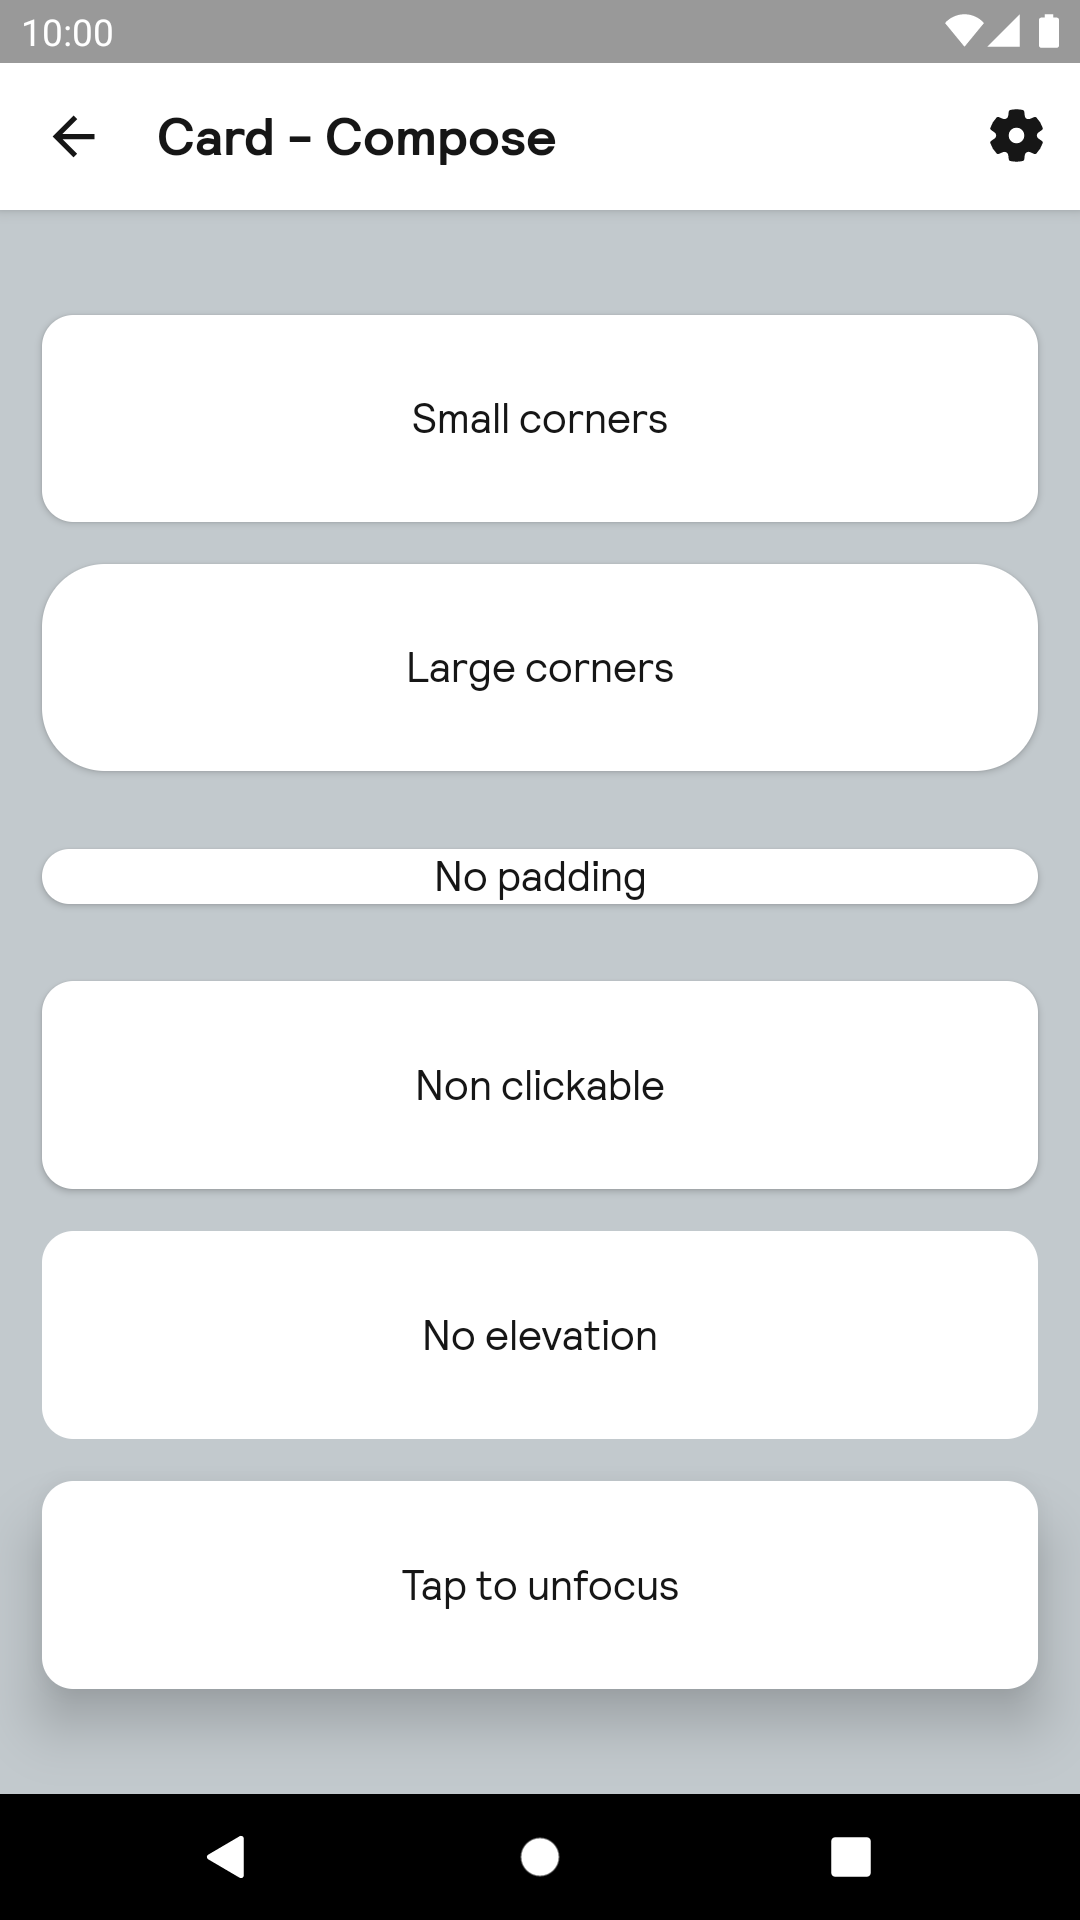
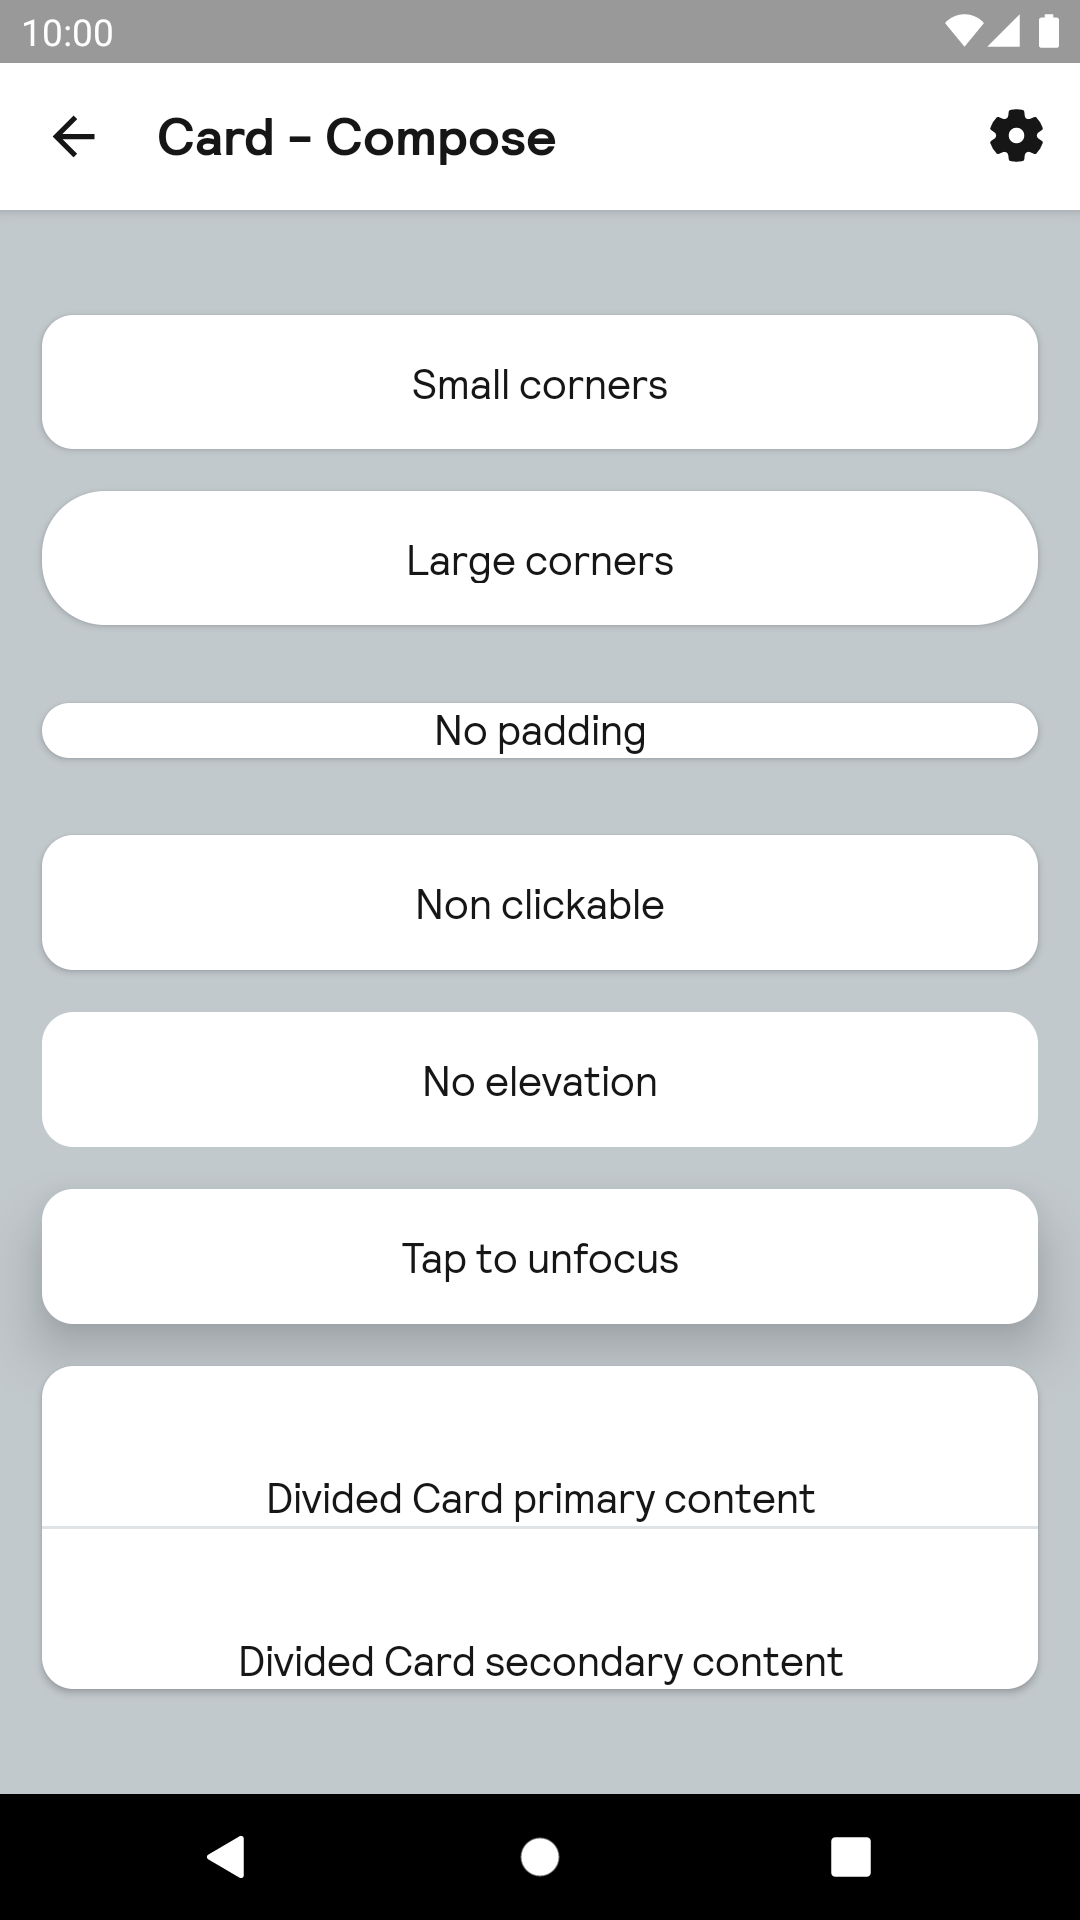
SONIC-1227 BpkInventoryDividedCard (#1365)
* SONIC-1227 add InventoryDividedCard.kt

* SONIC-1227 add inventoryDividedCardWidth()

* SONIC-1227 add screenshots

* SONIC-1227 add tests

* Record snapshots

* Updated snapshots for 'rtl'

* Updated snapshots for 'dm'

* SONIC-1227 change screenshot

* SONIC-1227 detekt fix

* SONIC-1227 remove old screenshots

* Record snapshots

* Updated snapshots for 'dm'

* Updated snapshots for 'default'

* Updated snapshots for 'rtl'

* SONIC-1227 rename to BpkDividedCard

* SONIC-1227 new screenshots

* Record snapshots

* Record snapshots

* SONIC-1227 move to Cards doc

* SONIC-1227 new screenshots

* Record snapshots

* Record snapshots

* Record snapshots

* Updated snapshots for 'rtl'

* Updated snapshots for 'dm'

* Updated snapshots for 'default'

* Trigger CI

Changed region(s): [[0.0306, 0.5625, 0.9778, 0.9062], [0.0306, 0.1875, 0.9778, 0.4062], [0.0306, 0.4375, 0.9778, 0.5312]]

diff --git a/app/src/androidTest/java/net/skyscanner/backpack/compose/dividedcard/BpkDividedCardTest.kt b/app/src/androidTest/java/net/skyscanner/backpack/compose/dividedcard/BpkDividedCardTest.kt
@@ -1,0 +1,130 @@
+/**
+ * Backpack for Android - Skyscanner's Design System
+ *
+ * Copyright 2018 Skyscanner Ltd
+ *
+ * Licensed under the Apache License, Version 2.0 (the "License");
+ * you may not use this file except in compliance with the License.
+ * You may obtain a copy of the License at
+ *
+ *   http://www.apache.org/licenses/LICENSE-2.0
+ *
+ * Unless required by applicable law or agreed to in writing, software
+ * distributed under the License is distributed on an "AS IS" BASIS,
+ * WITHOUT WARRANTIES OR CONDITIONS OF ANY KIND, either express or implied.
+ * See the License for the specific language governing permissions and
+ * limitations under the License.
+ */
+
+package net.skyscanner.backpack.compose.dividedcard
+
+import androidx.compose.foundation.Image
+import androidx.compose.foundation.layout.Spacer
+import androidx.compose.foundation.layout.fillMaxWidth
+import androidx.compose.foundation.layout.height
+import androidx.compose.ui.Modifier
+import androidx.compose.ui.layout.ContentScale
+import androidx.compose.ui.res.painterResource
+import androidx.compose.ui.res.stringResource
+import androidx.compose.ui.text.style.TextAlign
+import androidx.test.ext.junit.runners.AndroidJUnit4
+import net.skyscanner.backpack.BpkSnapshotTest
+import net.skyscanner.backpack.compose.text.BpkText
+import net.skyscanner.backpack.compose.theme.BpkTheme
+import net.skyscanner.backpack.compose.tokens.BpkSpacing
+import net.skyscanner.backpack.demo.R
+import org.junit.Before
+import org.junit.Test
+import org.junit.runner.RunWith
+
+@RunWith(AndroidJUnit4::class)
+class BpkDividedCardTest : BpkSnapshotTest() {
+
+  @Before
+  fun setup() {
+    setDimensions(height = 200, width = 450)
+  }
+
+  @Test
+  fun cardWidthSmallerThanMinimum() {
+    composed {
+      BpkDividedCard(
+        modifier = Modifier.dividedCardWidth(BpkSpacing.Xxl),
+        primaryContent = {
+          Image(
+            modifier = Modifier
+              .height(BpkSpacing.Xxl * 2)
+              .fillMaxWidth(),
+            painter = painterResource(id = R.drawable.canadian_rockies_canada),
+            contentDescription = "",
+            contentScale = ContentScale.Crop
+          )
+        },
+        secondaryContent = {
+          BpkText(
+            modifier = Modifier.fillMaxWidth(),
+            text = stringResource(id = R.string.divided_card_width_less_than_minimum),
+            style = BpkTheme.typography.bodyDefault,
+            textAlign = TextAlign.Center
+          )
+        },
+        onClick = {}
+      )
+    }
+  }
+
+  @Test
+  fun cardWidthGreaterThanMinimum() {
+    composed {
+      BpkDividedCard(
+        modifier = Modifier.fillMaxWidth(),
+        primaryContent = {
+          Image(
+            modifier = Modifier
+              .height(BpkSpacing.Xxl * 2)
+              .fillMaxWidth(),
+            painter = painterResource(id = R.drawable.canadian_rockies_canada),
+            contentDescription = "",
+            contentScale = ContentScale.Crop
+          )
+        },
+        secondaryContent = {
+          BpkText(
+            modifier = Modifier.fillMaxWidth(),
+            text = stringResource(id = R.string.divided_card_width_more_than_minimum),
+            style = BpkTheme.typography.bodyDefault,
+            textAlign = TextAlign.Center
+          )
+        },
+        onClick = {}
+      )
+    }
+  }
+
+  @Test
+  fun emptyCard() {
+    composed {
+      BpkDividedCard(
+        modifier = Modifier.fillMaxWidth(),
+        primaryContent = {
+          Spacer(modifier = Modifier.height(BpkSpacing.Xxl))
+          BpkText(
+            modifier = Modifier.fillMaxWidth(),
+            text = stringResource(id = R.string.divided_card_primary_content),
+            style = BpkTheme.typography.bodyDefault,
+            textAlign = TextAlign.Center,
+          )
+        },
+        secondaryContent = {
+          Spacer(modifier = Modifier.height(BpkSpacing.Xxl))
+          BpkText(
+            modifier = Modifier.fillMaxWidth(),
+            text = stringResource(id = R.string.divided_card_secondary_content),
+            style = BpkTheme.typography.bodyDefault,
+            textAlign = TextAlign.Center,
+          )
+        },
+      )
+    }
+  }
+}

diff --git a/backpack-compose/src/main/kotlin/net/skyscanner/backpack/compose/dividedcard/BpkDividedCard.kt b/backpack-compose/src/main/kotlin/net/skyscanner/backpack/compose/dividedcard/BpkDividedCard.kt
@@ -1,0 +1,90 @@
+/**
+ * Backpack for Android - Skyscanner's Design System
+ *
+ * Copyright 2018 Skyscanner Ltd
+ *
+ * Licensed under the Apache License, Version 2.0 (the "License");
+ * you may not use this file except in compliance with the License.
+ * You may obtain a copy of the License at
+ *
+ *   http://www.apache.org/licenses/LICENSE-2.0
+ *
+ * Unless required by applicable law or agreed to in writing, software
+ * distributed under the License is distributed on an "AS IS" BASIS,
+ * WITHOUT WARRANTIES OR CONDITIONS OF ANY KIND, either express or implied.
+ * See the License for the specific language governing permissions and
+ * limitations under the License.
+ */
+
+package net.skyscanner.backpack.compose.dividedcard
+
+import androidx.compose.foundation.background
+import androidx.compose.foundation.layout.Column
+import androidx.compose.foundation.layout.Spacer
+import androidx.compose.foundation.layout.fillMaxWidth
+import androidx.compose.foundation.layout.height
+import androidx.compose.foundation.layout.requiredWidth
+import androidx.compose.runtime.Composable
+import androidx.compose.ui.Modifier
+import androidx.compose.ui.unit.Dp
+import androidx.compose.ui.unit.dp
+import net.skyscanner.backpack.compose.card.BpkCard
+import net.skyscanner.backpack.compose.card.BpkCardCorner
+import net.skyscanner.backpack.compose.card.BpkCardPadding
+import net.skyscanner.backpack.compose.theme.BpkTheme
+
+@Composable
+fun BpkDividedCard(
+  primaryContent: @Composable () -> Unit,
+  secondaryContent: @Composable () -> Unit,
+  modifier: Modifier = Modifier,
+  onClick: (() -> Unit)? = null,
+) {
+  onClick?.let {
+    BpkCard(
+      onClick = it,
+      modifier = modifier,
+      corner = BpkCardCorner.Small,
+      padding = BpkCardPadding.None,
+    ) {
+      Content(
+        primaryContent = primaryContent,
+        secondaryContent = secondaryContent,
+      )
+    }
+  } ?: run {
+    BpkCard(
+      modifier = modifier,
+      corner = BpkCardCorner.Small,
+      padding = BpkCardPadding.None,
+    ) {
+      Content(
+        primaryContent = primaryContent,
+        secondaryContent = secondaryContent,
+      )
+    }
+  }
+}
+
+@Composable
+private fun Content(
+  primaryContent: @Composable () -> Unit,
+  secondaryContent: @Composable () -> Unit,
+) {
+  Column {
+    primaryContent.invoke()
+    Spacer(
+      modifier = Modifier
+        .height(1.dp)
+        .fillMaxWidth()
+        .background(color = BpkTheme.colors.surfaceHighlight),
+    )
+    secondaryContent.invoke()
+  }
+}
+
+fun Modifier.dividedCardWidth(cardWidth: Dp): Modifier {
+  val minWidth = 240.dp
+  val width = if (cardWidth < minWidth) minWidth else cardWidth
+  return requiredWidth(width)
+}

diff --git a/app/src/main/java/net/skyscanner/backpack/demo/compose/CardStory.kt b/app/src/main/java/net/skyscanner/backpack/demo/compose/CardStory.kt
@@ -21,7 +21,9 @@ package net.skyscanner.backpack.demo.compose
 import androidx.compose.foundation.background
 import androidx.compose.foundation.layout.Arrangement
 import androidx.compose.foundation.layout.Column
+import androidx.compose.foundation.layout.Spacer
 import androidx.compose.foundation.layout.fillMaxWidth
+import androidx.compose.foundation.layout.height
 import androidx.compose.foundation.layout.padding
 import androidx.compose.runtime.Composable
 import androidx.compose.runtime.getValue
@@ -30,14 +32,18 @@ import androidx.compose.runtime.remember
 import androidx.compose.runtime.setValue
 import androidx.compose.ui.Alignment
 import androidx.compose.ui.Modifier
+import androidx.compose.ui.res.stringResource
+import androidx.compose.ui.text.style.TextAlign
 import androidx.compose.ui.tooling.preview.Preview
 import net.skyscanner.backpack.compose.card.BpkCard
 import net.skyscanner.backpack.compose.card.BpkCardCorner
 import net.skyscanner.backpack.compose.card.BpkCardElevation
 import net.skyscanner.backpack.compose.card.BpkCardPadding
+import net.skyscanner.backpack.compose.dividedcard.BpkDividedCard
 import net.skyscanner.backpack.compose.text.BpkText
 import net.skyscanner.backpack.compose.theme.BpkTheme
 import net.skyscanner.backpack.compose.tokens.BpkSpacing
+import net.skyscanner.backpack.demo.R
 
 @Composable
 @Preview
@@ -64,6 +70,8 @@ fun CardStory() {
     NoElevationCardExample(cardModifier)
 
     FocusableCardExample(cardModifier)
+
+    DividedCardExample(cardModifier)
   }
 }
 
@@ -156,4 +164,33 @@ fun NoElevationCardExample(
   ) {
     BpkText("No elevation")
   }
+}
+
+@Composable
+@Preview
+fun DividedCardExample(
+  modifier: Modifier = Modifier,
+) {
+  BpkDividedCard(
+    modifier = Modifier.fillMaxWidth(),
+    primaryContent = {
+      Spacer(modifier = Modifier.height(BpkSpacing.Xxl))
+      BpkText(
+        modifier = Modifier.fillMaxWidth(),
+        text = stringResource(id = R.string.divided_card_primary_content),
+        style = BpkTheme.typography.bodyDefault,
+        textAlign = TextAlign.Center,
+      )
+    },
+    secondaryContent = {
+      Spacer(modifier = Modifier.height(BpkSpacing.Xxl))
+      BpkText(
+        modifier = Modifier.fillMaxWidth(),
+        text = stringResource(id = R.string.divided_card_secondary_content),
+        style = BpkTheme.typography.bodyDefault,
+        textAlign = TextAlign.Center,
+      )
+    },
+    onClick = {},
+  )
 }

diff --git a/app/src/androidTest/java/net/skyscanner/backpack/docs/DocsRegistry.kt b/app/src/androidTest/java/net/skyscanner/backpack/docs/DocsRegistry.kt
@@ -109,10 +109,10 @@ object DocsRegistry {
     ViewScreenshot("Flare - View - Inset padding mode", "inset-padding"),
     ComposeScreenshot("Flare - Compose", "default"),
     ComposeScreenshot("Floating Notification", "default") { setupFloatingNotification(it) },
-    ViewScreenshot("Horizontal Nav - View", "default"),
-    ComposeScreenshot("Horizontal Nav - Compose", "default"),
     ViewScreenshot("Floating Action Button - View", "default"),
     ComposeScreenshot("Floating Action Button - Compose", "default"),
+    ViewScreenshot("Horizontal Nav - View", "default"),
+    ComposeScreenshot("Horizontal Nav - Compose", "default"),
     ViewScreenshot("Nav Bar - View - Default", "expanded"),
     ViewScreenshot("Nav Bar - View - Default", "collapsed") { setupNavBarCollapsed() },
     ViewScreenshot("Nav Bar - View - With Menu", "navigation") { setupNavBarCollapsed() },

diff --git a/docs/compose/Card/README.md b/docs/compose/Card/README.md
@@ -72,3 +72,31 @@ BpkCard(elevation = BpkCardElevation.Focus) {
     // content
 }
 ```
+
+Example of a Divided Card:
+
+```Kotlin
+import net.skyscanner.backpack.compose.dividedcard.BpkDividedCard
+import net.skyscanner.backpack.compose.dividedcard.dividedCardWidth
+
+BpkDividedCard(
+  modifier = Modifier.fillMaxWidth(),
+  primaryContent = {
+    Image(
+      modifier = Modifier
+        .height(BpkSpacing.Xxl * 2)
+        .dividedCardWidth(BpkSpacing.Xxl),
+      painter = painterResource(id = R.drawable.image),
+      contentDescription = "content description",
+      contentScale = ContentScale.Crop
+    )
+  },
+  secondaryContent = {
+    BpkText(
+      modifier = Modifier.fillMaxWidth(),
+      text = stringResource("BpkDividedCard sample"),
+    )
+  },
+  onClick = {}
+)
+```
